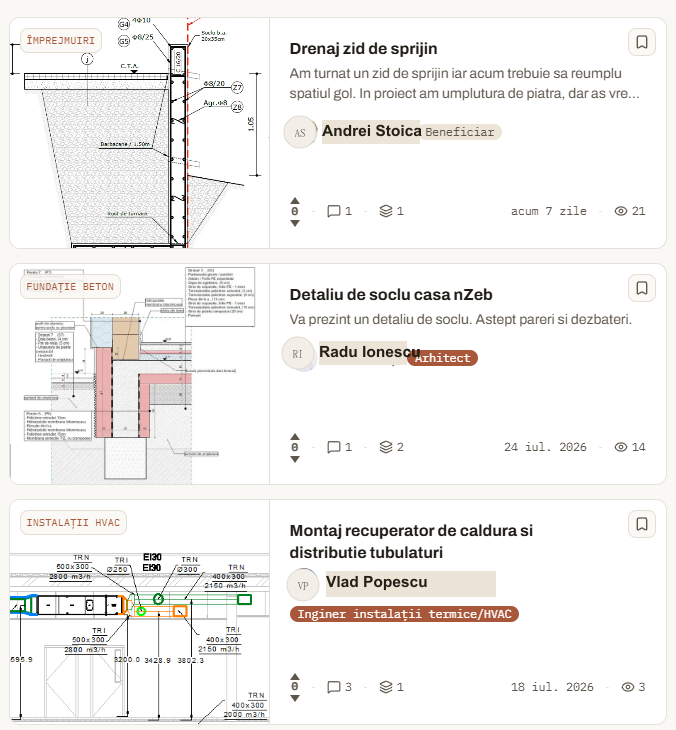
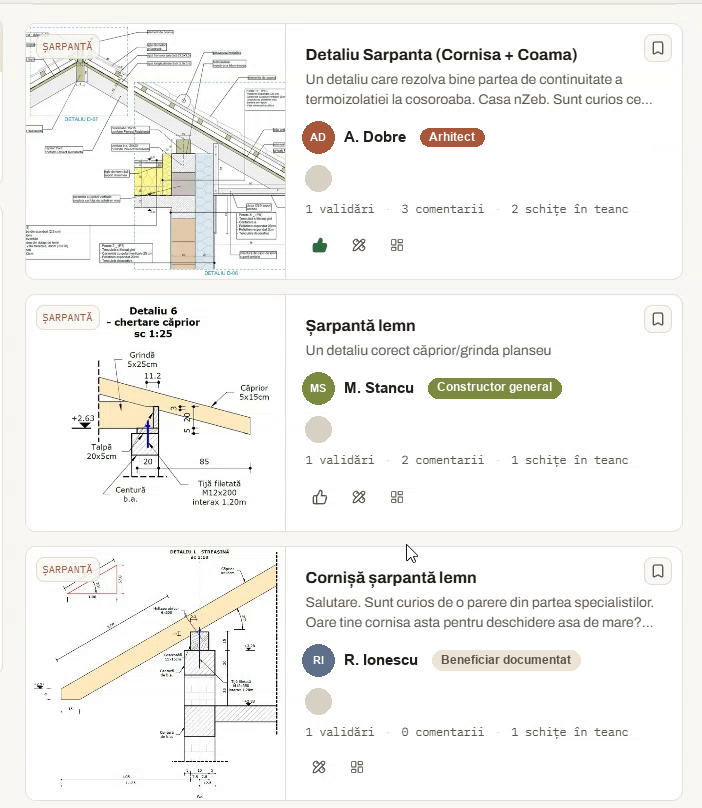
feat: update user identifiers and improve approval indicators in HeroPreview component

diff --git a/components/hero-preview.tsx b/components/hero-preview.tsx
@@ -2,8 +2,6 @@
 
 import { type CSSProperties, useEffect, useState } from "react";
 
-import { VoteTriangle } from "./vote-triangle";
-
 // Cardul de preview din hero-ul landing — (1) FEED: SCREENSHOT REAL din aplicație (nu o recreere de
 // cod — public/landing/feed-real.png, cadru dintr-o înregistrare reală, test.mp4), cu tap
 // simulat pe cardul „Cornișă șarpantă lemn" (al treilea, cel care chiar se deschide spre exact
@@ -211,15 +209,15 @@ export function HeroPreview() {
 
           {/* Autor + rol */}
           <div data-rise="1" style={{ display: "flex", alignItems: "center", gap: 9, marginTop: 9, animationDelay: "5.9s" }}>
-            <span style={voteAvatar}>CD</span>
-            <span style={{ fontFamily: SANS, fontSize: 13.5, fontWeight: 600, color: "var(--foreground)" }}>C. Dobre</span>
+            <span style={voteAvatar}>RI</span>
+            <span style={{ fontFamily: SANS, fontSize: 13.5, fontWeight: 600, color: "var(--foreground)" }}>R. Ionescu</span>
             <span style={rolePill}>Beneficiar</span>
           </div>
 
           {/* Stivă de validatori — avatarele celor care au luat poziție (apar pe rând). */}
           <div data-rise="1" style={{ display: "flex", alignItems: "center", marginTop: 12, paddingLeft: 7, animationDelay: "6.4s" }}>
-            <span style={stackAvatar}>TS</span>
-            <span style={stackAvatar}>NB</span>
+            <span style={stackAvatar}>MP</span>
+            <span style={stackAvatar}>IR</span>
           </div>
 
           {/* Contoare — ca în feed: validări · comentarii · schițe în teanc. */}
@@ -235,25 +233,23 @@ export function HeroPreview() {
         {/* Pozițiile pe roluri — partea „vie" a dezbaterii (Aprobă / Dezaprobă cu justificare). */}
         <div style={{ padding: "12px 18px 16px", marginTop: 8, borderTop: "1px solid var(--border)", display: "flex", flexDirection: "column", gap: 10 }}>
           <div data-rise="1" style={{ display: "flex", alignItems: "center", gap: 10, animationDelay: "7.1s" }}>
-            <span style={voteAvatar}>TS</span>
+            <span style={voteAvatar}>MP</span>
             <span style={{ fontSize: 13.5, flex: 1 }}>
-              <b style={{ fontWeight: 600 }}>T. Sava</b> <span style={{ color: "var(--muted-foreground)" }}>· Proiectant</span>
+              <b style={{ fontWeight: 600 }}>M. Popa</b> <span style={{ color: "var(--muted-foreground)" }}>· Proiectant</span>
             </span>
             <span style={{ display: "inline-flex", alignItems: "center", gap: 5, fontSize: 12, fontWeight: 600, color: "#2f6b3f", background: "rgba(47,107,63,0.12)", border: "1px solid rgba(47,107,63,0.3)", padding: "3px 9px", borderRadius: 999 }}>
-              <VoteTriangle direction="up" size={8} />
-              Aprobă
+              ✓ Aprobă
             </span>
           </div>
           <div data-rise="1" style={{ display: "flex", alignItems: "flex-start", gap: 10, animationDelay: "7.8s" }}>
-            <span style={voteAvatar}>NB</span>
+            <span style={voteAvatar}>IR</span>
             <div style={{ flex: 1 }}>
               <div style={{ display: "flex", alignItems: "center", gap: 8 }}>
                 <span style={{ fontSize: 13.5 }}>
-                  <b style={{ fontWeight: 600 }}>N. Barbu</b> <span style={{ color: "var(--muted-foreground)" }}>· Executant</span>
+                  <b style={{ fontWeight: 600 }}>I. Radu</b> <span style={{ color: "var(--muted-foreground)" }}>· Executant</span>
                 </span>
                 <span style={{ display: "inline-flex", alignItems: "center", gap: 5, fontSize: 12, fontWeight: 600, color: "#9a3a30", background: "rgba(176,70,60,0.12)", border: "1px solid rgba(176,70,60,0.3)", padding: "3px 9px", borderRadius: 999, marginLeft: "auto" }}>
-                  <VoteTriangle direction="down" size={8} />
-                  Dezaprobă
+                  ✕ Dezaprobă
                 </span>
               </div>
               <div style={{ fontSize: 12.5, color: "var(--muted-foreground)", marginTop: 4, lineHeight: 1.45 }}>
